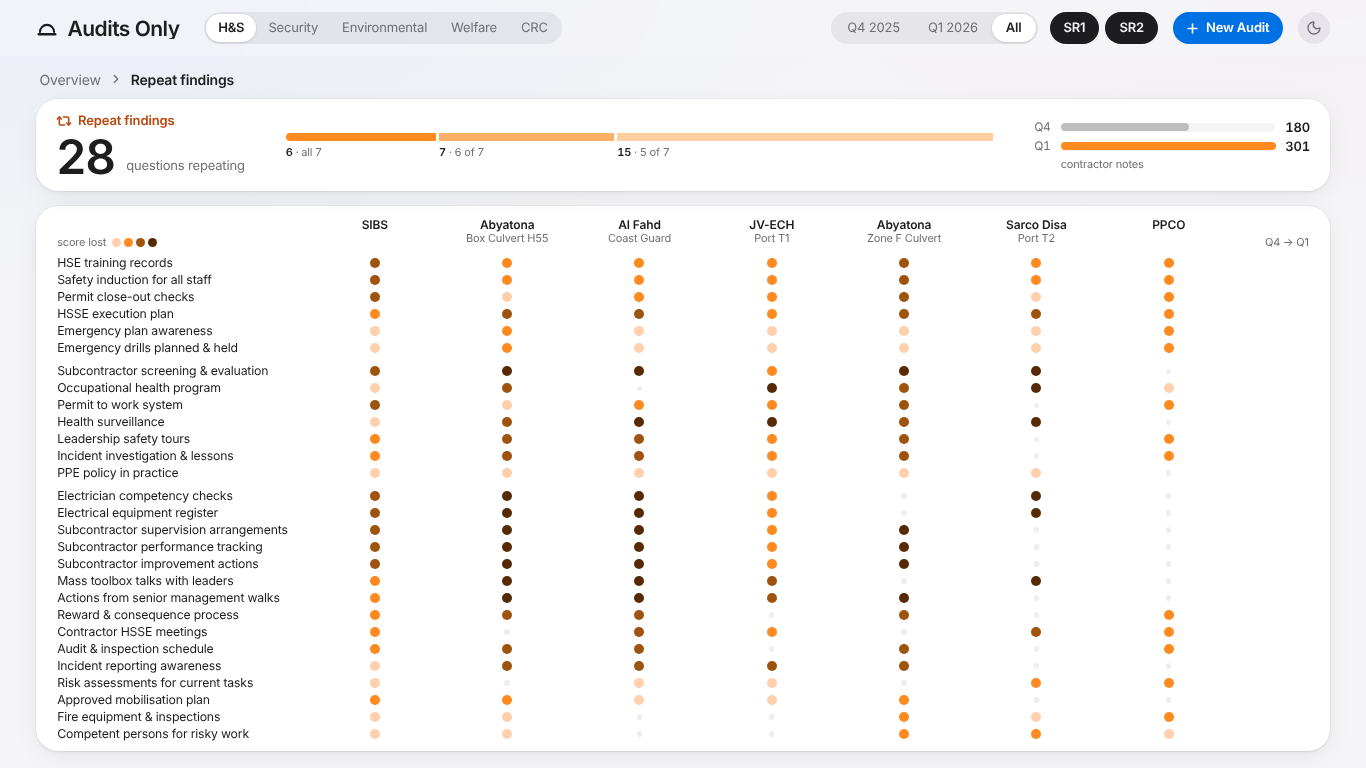
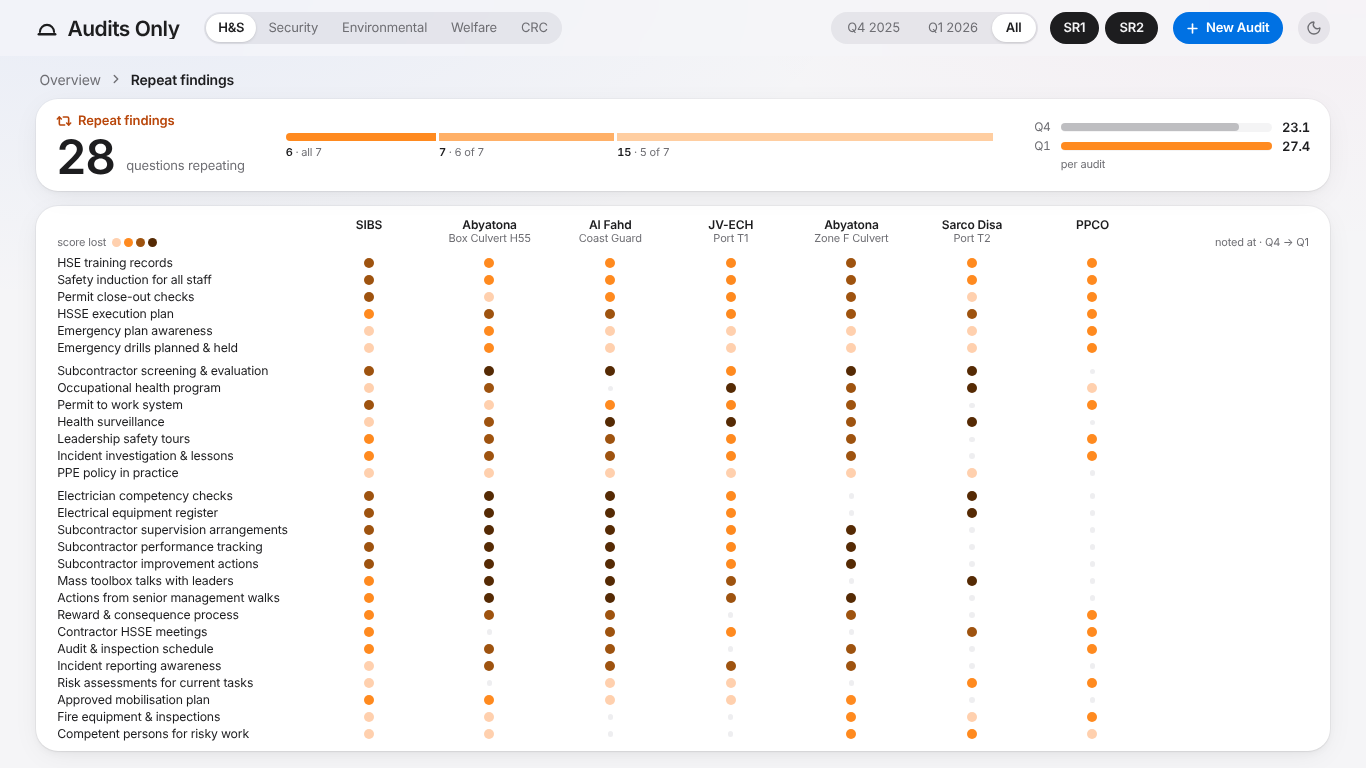
fix(ui): repeats header per-audit, dark-mode dot contrast
Claude-Session: https://claude.ai/code/session_017sV5CTZ2p1oqXC1ZAUzU4v

diff --git a/components/details/RepeatsView.tsx b/components/details/RepeatsView.tsx
@@ -10,29 +10,27 @@ export interface RepeatCol { id: string; name: string; base: string; qual: strin
 export interface RepeatCell { step: number; lost: number | null; href: string }
 export interface RepeatRow { key: string; label: string; reach: number; q4: number; q1: number; href: string; cells: (RepeatCell | null)[] }
 
-/** Dot tint by score lost in the contractor's latest audit: one warm hue, darker = more lost. */
-const TINT = [
-  'color-mix(in oklab, var(--minimal-dot) 42%, var(--surface))',
-  'var(--minimal-dot)',
-  'color-mix(in oklab, var(--minimal-dot), black 30%)',
-  'color-mix(in oklab, var(--minimal-dot), black 55%)',
-];
+/** Dot tint by score lost in the contractor's latest audit: one warm hue, darker = more lost (tokens in globals.css). */
+const TINT = ['var(--rp-0)', 'var(--rp-1)', 'var(--rp-2)', 'var(--rp-3)'];
 /** Smallest row (px) before the matrix falls back to "top N + more"; space between reach groups. */
 const ROW_MIN = 16;
 const GROUP_GAP = 6;
 
 /**
  * The /repeats screen under the breadcrumb. Header strip (the landing of the dashboard card's hand-off): the figure,
- * the reach bar, Q4 → Q1 notes. Then the issues × contractors matrix: worst reach first, a filled dot where the question
- * repeats at that contractor (tint = score lost there), empty otherwise. Hover or focus a row for its Q4 → Q1 notes;
+ * the reach bar, Q4 → Q1 notes per audit. Then the issues × contractors matrix: worst reach first, a filled dot where the question
+ * repeats at that contractor (tint = score lost there), empty otherwise. Hover or focus a row for its Q4 → Q1 "noted at X of Y audits";
  * a dot opens the item's history, a label the item in its category, a column head the contractor.
  * Rows share the height left; if they cannot all fit at ROW_MIN, the top N show with a "+M more" row that expands in
  * place inside the matrix's own scroll area. The page itself never scrolls.
  */
-export function RepeatsView({ count, spread, notes, rows, cols, empty }: {
+export function RepeatsView({ count, spread, notes, audits, rows, cols, empty }: {
   count: number | null;
   spread: { reach: number; of: number; questions: number }[];
+  /** Audits noted on these questions, summed, per quarter. */
   notes: { q4: number; q1: number };
+  /** Audits in the filter per quarter: the denominators. */
+  audits: { q4: number; q1: number };
   rows: RepeatRow[];
   cols: RepeatCol[];
   empty: string | null;
@@ -40,21 +38,27 @@ export function RepeatsView({ count, spread, notes, rows, cols, empty }: {
   return (
     <div className="tone-minimal flex min-h-0 flex-1 flex-col gap-[var(--gap-grid)] px-[var(--gutter)]">
       <HandoffLanding />
-      <Header count={count} spread={spread} notes={notes} />
+      <Header count={count} spread={spread} notes={notes} audits={audits} />
       {empty ? (
         <section data-testid="empty-state" className="card flex min-h-0 flex-1 flex-col items-center justify-center gap-3 px-6 text-center">
           <p className="figure text-[clamp(56px,10svh,112px)] text-faint" aria-hidden>{count === null ? '—' : '0'}</p>
           <h2 className="text-[21px] font-semibold tracking-[-0.02em]">{empty}</h2>
         </section>
       ) : (
-        <Matrix rows={rows} cols={cols} />
+        <Matrix rows={rows} cols={cols} audits={audits} />
       )}
     </div>
   );
 }
 
-function Header({ count, spread, notes }: { count: number | null; spread: { reach: number; of: number; questions: number }[]; notes: { q4: number; q1: number } }) {
-  const max = Math.max(1, notes.q4, notes.q1);
+/** Notes per audit (a quarter with more audits must not read as a rise); null without audits. */
+const perAudit = (n: number, audits: number) => (audits > 0 ? n / audits : null);
+
+function Header({ count, spread, notes, audits }: {
+  count: number | null; spread: { reach: number; of: number; questions: number }[]; notes: { q4: number; q1: number }; audits: { q4: number; q1: number };
+}) {
+  const rates = { q4: perAudit(notes.q4, audits.q4), q1: perAudit(notes.q1, audits.q1) };
+  const max = Math.max(1e-9, rates.q4 ?? 0, rates.q1 ?? 0);
   return (
     <section
       data-testid="repeats-header"
@@ -78,13 +82,13 @@ function Header({ count, spread, notes }: { count: number | null; spread: { reac
         <div
           data-testid="repeats-notes"
           role="img"
-          aria-label={`Contractor notes on these questions: Q4 ${notes.q4}, Q1 ${notes.q1}`}
+          aria-label={`Notes on these questions per audit: Q4 ${rates.q4?.toFixed(1) ?? 'none'}, Q1 ${rates.q1?.toFixed(1) ?? 'none'}`}
           className="grid grid-cols-[auto_minmax(0,1fr)_auto] items-center gap-x-2.5 gap-y-1.5"
         >
-          {([['Q4', notes.q4, 'color-mix(in srgb, var(--muted) 40%, transparent)'], ['Q1', notes.q1, 'var(--tone-dot)']] as const).map(([q, n, bg], k) => (
-            <NoteBar key={q} q={q} n={n} max={max} bg={bg} k={k} />
+          {([['Q4', rates.q4, 'color-mix(in srgb, var(--muted) 40%, transparent)'], ['Q1', rates.q1, 'var(--tone-dot)']] as const).map(([q, r, bg], k) => (
+            <NoteBar key={q} q={q} rate={r} max={max} bg={bg} k={k} />
           ))}
-          <span className="col-start-2 col-end-4 text-[11px] leading-none text-muted">contractor notes</span>
+          <span className="col-start-2 col-end-4 text-[11px] leading-none text-muted">per audit</span>
         </div>
       ) : (
         <div />
@@ -93,7 +97,7 @@ function Header({ count, spread, notes }: { count: number | null; spread: { reac
   );
 }
 
-function NoteBar({ q, n, max, bg, k }: { q: string; n: number; max: number; bg: string; k: number }) {
+function NoteBar({ q, rate, max, bg, k }: { q: string; rate: number | null; max: number; bg: string; k: number }) {
   return (
     <>
       <span className="num text-[12px] leading-none text-muted">{q}</span>
@@ -101,15 +105,15 @@ function NoteBar({ q, n, max, bg, k }: { q: string; n: number; max: number; bg: 
         <span
           data-testid="repeats-notes-bar"
           className="rp-grow block h-full rounded-full"
-          style={{ width: `${(n / max) * 100}%`, background: bg, ['--d' as string]: `${300 + k * 90}ms` }}
+          style={{ width: `${((rate ?? 0) / max) * 100}%`, background: bg, ['--d' as string]: `${300 + k * 90}ms` }}
         />
       </span>
-      <span data-testid="repeats-notes-count" className="num text-[13px] font-semibold leading-none">{n}</span>
+      <span data-testid="repeats-notes-count" className="num text-[13px] font-semibold leading-none">{rate === null ? '—' : rate.toFixed(1)}</span>
     </>
   );
 }
 
-function Matrix({ rows, cols }: { rows: RepeatRow[]; cols: RepeatCol[] }) {
+function Matrix({ rows, cols, audits }: { rows: RepeatRow[]; cols: RepeatCol[]; audits: { q4: number; q1: number } }) {
   const body = useRef<HTMLDivElement>(null);
   // How many rows fit at ROW_MIN (null until measured: the server renders them all).
   const [fit, setFit] = useState<number | null>(null);
@@ -148,7 +152,7 @@ function Matrix({ rows, cols }: { rows: RepeatRow[]; cols: RepeatCol[] }) {
 
   const clipped = !open && fit !== null && fit < rows.length;
   const shown = clipped ? rows.slice(0, fit) : rows;
-  const cssCols = `clamp(220px, 19vw, 360px) repeat(${cols.length}, minmax(0, 1fr)) clamp(64px, 6vw, 110px)`;
+  const cssCols = `clamp(220px, 19vw, 360px) repeat(${cols.length}, minmax(0, 1fr)) clamp(150px, 12vw, 210px)`;
 
   return (
     <section
@@ -182,7 +186,7 @@ function Matrix({ rows, cols }: { rows: RepeatRow[]; cols: RepeatCol[] }) {
             </Link>
           </div>
         ))}
-        <div role="columnheader" className="px-2 text-right text-[11px] leading-none text-muted">Q4 → Q1</div>
+        <div role="columnheader" className="px-2 text-right text-[11px] leading-none text-muted">noted at · Q4 → Q1</div>
       </div>
 
       <div
@@ -201,6 +205,7 @@ function Matrix({ rows, cols }: { rows: RepeatRow[]; cols: RepeatCol[] }) {
             cssCols={cssCols}
             gap={i > 0 && r.reach !== shown[i - 1].reach}
             open={open}
+            audits={audits}
             labelRef={open && fit !== null && i === fit ? (el) => { firstHidden.current = el; } : undefined}
           />
         ))}
@@ -226,8 +231,8 @@ function Matrix({ rows, cols }: { rows: RepeatRow[]; cols: RepeatCol[] }) {
   );
 }
 
-function Row({ row, index, cols, cssCols, gap, open, labelRef }: {
-  row: RepeatRow; index: number; cols: RepeatCol[]; cssCols: string; gap: boolean; open: boolean;
+function Row({ row, index, cols, cssCols, gap, open, audits, labelRef }: {
+  row: RepeatRow; index: number; cols: RepeatCol[]; cssCols: string; gap: boolean; open: boolean; audits: { q4: number; q1: number };
   labelRef?: (el: HTMLAnchorElement | null) => void;
 }) {
   return (
@@ -282,12 +287,13 @@ function Row({ row, index, cols, cssCols, gap, open, labelRef }: {
       <div
         role="cell"
         data-testid="repeats-trend"
-        aria-label={`Noted at ${row.q4} contractors in Q4, ${row.q1} in Q1`}
+        aria-label={`Noted at ${row.q4} of ${audits.q4} audits in Q4, ${row.q1} of ${audits.q1} audits in Q1`}
         className="num flex items-center justify-end gap-1 px-2 text-[12px] opacity-0 transition-opacity duration-200 group-hover/row:opacity-100 group-focus-within/row:opacity-100"
       >
-        <span className="text-muted">{row.q4}</span>
+        <span className="whitespace-nowrap text-muted">{row.q4} of {audits.q4}</span>
         <span className="text-muted">→</span>
-        <span className="font-semibold text-ink">{row.q1}</span>
+        <span className="whitespace-nowrap font-semibold text-ink">{row.q1} of {audits.q1}</span>
+        <span className="text-muted">audits</span>
       </div>
     </div>
   );

diff --git a/tests/e2e/repeats.spec.ts b/tests/e2e/repeats.spec.ts
@@ -1,11 +1,12 @@
 import { test, expect, type Page } from '@playwright/test';
 import { getRepo } from '../../lib/data/repo';
-import { repeatContractors, systemicRepeats } from '../../lib/analytics';
+import { filterAudits, repeatContractors, systemicRepeats } from '../../lib/analytics';
 
 const ALL = { quarter: 'all' as const, regions: ['SR1', 'SR2'] as ('SR1' | 'SR2')[] };
 const Q = 'q=all&r=SR1%2CSR2';
 const ROWS = systemicRepeats(getRepo(), ALL);
 const COLS = repeatContractors(getRepo(), ALL);
+const AUDITS = { q4: filterAudits(getRepo(), { ...ALL, quarter: 'Q4-2025' }).length, q1: filterAudits(getRepo(), { ...ALL, quarter: 'Q1-2026' }).length };
 const CODE = /\b[ABC]\d+(\.\d+)?\b/;
 
 /** Wrap startViewTransition: count hand-offs and, once each is running, record its pseudo-element animation durations. */
@@ -119,7 +120,8 @@ test('/repeats: a row shows its Q4 → Q1 notes on hover; dot, label and column 
   await expect(trend).toHaveCSS('opacity', '0');
   await row.hover();
   await expect(trend).toHaveCSS('opacity', '1');
-  await expect(trend).toHaveText(`${ROWS[0].q4Notes}→${ROWS[0].q1Notes}`);
+  await expect(trend).toHaveText(`${ROWS[0].q4Audits} of ${AUDITS.q4}→${ROWS[0].q1Audits} of ${AUDITS.q1}audits`);
+  await expect(trend).toHaveAttribute('aria-label', `Noted at ${ROWS[0].q4Audits} of ${AUDITS.q4} audits in Q4, ${ROWS[0].q1Audits} of ${AUDITS.q1} audits in Q1`);
   // focus shows it too
   await page.mouse.move(0, 0);
   await page.getByTestId('repeats-row').nth(1).getByTestId('repeats-label').focus();
@@ -188,4 +190,35 @@ test('/repeats on a short screen: top rows + "+M more" that expands in place; th
   await page.getByTestId('repeats-row').last().scrollIntoViewIfNeeded();
   await expect(page.getByTestId('repeats-row').last()).toBeInViewport();
   await noPageScroll(page);
+});
+
+test('/repeats header: Q4 → Q1 as notes per audit, so extra Q1 audits do not read as a rise', async ({ page }) => {
+  await page.goto(`/repeats?${Q}`);
+  const notes = page.getByTestId('repeats-notes');
+  await expect(notes).toContainText('per audit');
+  await expect(notes).not.toContainText('contractor notes');
+  const sum = (k: 'q4Audits' | 'q1Audits') => ROWS.reduce((s, r) => s + r[k], 0);
+  expect(AUDITS.q4).toBeGreaterThan(0);
+  expect(AUDITS.q1).toBeGreaterThan(0);
+  await expect(page.getByTestId('repeats-notes-count')).toHaveText([
+    (sum('q4Audits') / AUDITS.q4).toFixed(1),
+    (sum('q1Audits') / AUDITS.q1).toFixed(1),
+  ]);
+});
+
+test('/repeats dark theme: every dot tint is at least 3:1 against the dark card', async ({ browser }) => {
+  const ctx = await browser.newContext({ colorScheme: 'dark', viewport: { width: 1920, height: 1080 } });
+  const page = await ctx.newPage();
+  await page.goto(`/repeats?${Q}`);
+  await expect(page.getByTestId('repeats-matrix')).toBeVisible();
+  const ratios = await page.evaluate(() => {
+    const cv = document.createElement('canvas').getContext('2d')!;
+    const rgb = (c: string) => { cv.fillStyle = '#000'; cv.fillStyle = c; cv.fillRect(0, 0, 1, 1); return [...cv.getImageData(0, 0, 1, 1).data].slice(0, 3); };
+    const lum = (c: number[]) => { const [r, g, b] = c.map((v) => { v /= 255; return v <= 0.03928 ? v / 12.92 : ((v + 0.055) / 1.055) ** 2.4; }); return 0.2126 * r + 0.7152 * g + 0.0722 * b; };
+    const card = lum(rgb(getComputedStyle(document.querySelector('[data-testid="repeats-matrix"]')!).backgroundColor));
+    const root = getComputedStyle(document.documentElement);
+    return [0, 1, 2, 3].map((k) => { const l = lum(rgb(root.getPropertyValue(`--rp-${k}`).trim())); return (Math.max(l, card) + 0.05) / (Math.min(l, card) + 0.05); });
+  });
+  for (const r of ratios) expect(r).toBeGreaterThanOrEqual(3);
+  await ctx.close();
 });

diff --git a/app/globals.css b/app/globals.css
@@ -33,6 +33,8 @@
   --good: #1f7a36;     --good-bg: #e3f6e8;     --good-dot: #34c759;
   --partial: #8f6000;  --partial-bg: #fff3d1;  --partial-dot: #ffb300;
   --minimal: #b9470b;  --minimal-bg: #ffe9d8;  --minimal-dot: #ff8a1f;
+  /* /repeats dot tint by score lost (darker = more lost), RepeatsView */
+  --rp-0: #ffd0ae; --rp-1: #ff8a1f; --rp-2: #9e530f; --rp-3: #552a04;
   --non: #c0141c;      --non-bg: #ffe3e1;      --non-dot: #ff3b30;
   --up: #1f7a36;
   --down: #c0141c;
@@ -92,6 +94,8 @@
   --good: #4fdc78;     --good-bg: rgba(48, 209, 88, 0.16);   --good-dot: #30d158;
   --partial: #ffd54a;  --partial-bg: rgba(255, 214, 10, 0.15); --partial-dot: #ffd60a;
   --minimal: #ffad4d;  --minimal-bg: rgba(255, 159, 10, 0.17); --minimal-dot: #ff9f0a;
+  /* /repeats dot tint, lifted toward a light warm tone: the darkest step stays >= 3:1 on the dark card */
+  --rp-0: #ffd6ad; --rp-1: #ffa952; --rp-2: #e2782a; --rp-3: #b85a18;
   --non: #ff7b72;      --non-bg: rgba(255, 69, 58, 0.18);    --non-dot: #ff453a;
   --up: #4fdc78;
   --down: #ff7b72;
@@ -131,6 +135,8 @@
     --good: #4fdc78;     --good-bg: rgba(48, 209, 88, 0.16);   --good-dot: #30d158;
     --partial: #ffd54a;  --partial-bg: rgba(255, 214, 10, 0.15); --partial-dot: #ffd60a;
     --minimal: #ffad4d;  --minimal-bg: rgba(255, 159, 10, 0.17); --minimal-dot: #ff9f0a;
+    /* /repeats dot tint, lifted toward a light warm tone: the darkest step stays >= 3:1 on the dark card */
+    --rp-0: #ffd6ad; --rp-1: #ffa952; --rp-2: #e2782a; --rp-3: #b85a18;
     --non: #ff7b72;      --non-bg: rgba(255, 69, 58, 0.18);    --non-dot: #ff453a;
     --up: #4fdc78;
     --down: #ff7b72;
@@ -452,6 +458,8 @@ html.js [data-countup]:not([data-ready]) {
     --good: #1f7a36;     --good-bg: #e3f6e8;     --good-dot: #34c759;
     --partial: #8f6000;  --partial-bg: #fff3d1;  --partial-dot: #ffb300;
     --minimal: #b9470b;  --minimal-bg: #ffe9d8;  --minimal-dot: #ff8a1f;
+    /* /repeats dot tint by score lost (darker = more lost), RepeatsView */
+    --rp-0: #ffd0ae; --rp-1: #ff8a1f; --rp-2: #9e530f; --rp-3: #552a04;
     --non: #c0141c;      --non-bg: #ffe3e1;      --non-dot: #ff3b30;
     --up: #1f7a36;
     --down: #c0141c;

diff --git a/app/repeats/page.tsx b/app/repeats/page.tsx
@@ -1,6 +1,6 @@
 import type { Metadata } from 'next';
 import { getRepo } from '@/lib/data/repo';
-import { repeatContractors, repeatSpread, systemicRepeats } from '@/lib/analytics';
+import { filterAudits, repeatContractors, repeatSpread, systemicRepeats } from '@/lib/analytics';
 import { detailContext, href, type SP } from '@/lib/details';
 import { DetailFrame } from '@/components/details/DetailFrame';
 import { RepeatsView, type RepeatCol, type RepeatRow } from '@/components/details/RepeatsView';
@@ -38,8 +38,8 @@ export default async function RepeatsPage({ searchParams }: { searchParams: Prom
     key: r.itemCode,
     label: r.label,
     reach: r.contractorCount,
-    q4: r.q4Notes,
-    q1: r.q1Notes,
+    q4: r.q4Audits,
+    q1: r.q1Audits,
     href: href(`/category/${r.category}`, query, { hash: `item-${r.itemCode}` }),
     cells: cols.map((c) => {
       if (!r.contractors.some((x) => x.id === c.id)) return null;
@@ -52,6 +52,8 @@ export default async function RepeatsPage({ searchParams }: { searchParams: Prom
       };
     }),
   }));
+  // Audits per quarter within the filter's regions: the denominators, so a quarter with more audits does not read as a rise.
+  const audits = { q4: filterAudits(repo, { ...filter, quarter: 'Q4-2025' }).length, q1: filterAudits(repo, { ...filter, quarter: 'Q1-2026' }).length };
   const empty = twoQuarters ? (repeats.length ? null : 'No questions repeating') : 'Needs an earlier quarter';
 
   return (
@@ -59,7 +61,8 @@ export default async function RepeatsPage({ searchParams }: { searchParams: Prom
       <RepeatsView
         count={twoQuarters ? repeats.length : null}
         spread={repeatSpread(repeats)}
-        notes={{ q4: repeats.reduce((s, r) => s + r.q4Notes, 0), q1: repeats.reduce((s, r) => s + r.q1Notes, 0) }}
+        notes={{ q4: repeats.reduce((s, r) => s + r.q4Audits, 0), q1: repeats.reduce((s, r) => s + r.q1Audits, 0) }}
+        audits={audits}
         rows={rows}
         cols={cols}
         empty={empty}

diff --git a/lib/analytics.ts b/lib/analytics.ts
@@ -369,6 +369,8 @@ export function repeatFindings(repo: Repo, filter: Filter): {
 export interface SystemicRepeat {
   itemCode: string; label: string; category: CategoryId; contractors: Contractor[]; contractorCount: number;
   eligibleContractors: number; q4Notes: number; q1Notes: number;
+  /** Audits (within the filter's regions) with an applicable note on this question, per quarter. */
+  q4Audits: number; q1Audits: number;
   sectionScores: { contractorId: string; q4: number | null; q1: number | null }[];
 }
 
@@ -406,11 +408,13 @@ export function rankedSystemicRepeats(repo: Repo, filter: Filter, minContractors
     const mine = negs.filter((o) => o.itemCode === code);
     const notedBy = (q: Quarter) => new Set(mine.filter((o) => quarterOf.get(o.auditId) === q).map((o) => pool.find((a) => a.id === o.auditId)!.contractorId)).size;
     const hitIds = new Set(mine.map((o) => o.auditId));
+    const auditsIn = (q: Quarter) => [...hitIds].filter((id) => quarterOf.get(id) === q).length;
     const ratios = pool.filter((a) => hitIds.has(a.id)).map((a) => itemRatio(a, item)).filter((x): x is number => x !== null);
     const ratioIn = (c: string, q: Quarter) => { const a = auditOf(c, q); return a ? itemRatio(a, item) : null; };
     rows.push({
       itemCode: code, label: itemLabel(code, item.question), category: item.category, contractors, contractorCount: contractors.length,
       eligibleContractors, q4Notes: notedBy('Q4-2025'), q1Notes: notedBy('Q1-2026'),
+      q4Audits: auditsIn('Q4-2025'), q1Audits: auditsIn('Q1-2026'),
       sectionScores: contractors.map((c) => ({ contractorId: c.id, q4: ratioIn(c.id, 'Q4-2025'), q1: ratioIn(c.id, 'Q1-2026') })),
       impact: hitIds.size * (1 - (mean(ratios) ?? 1)),
     });
